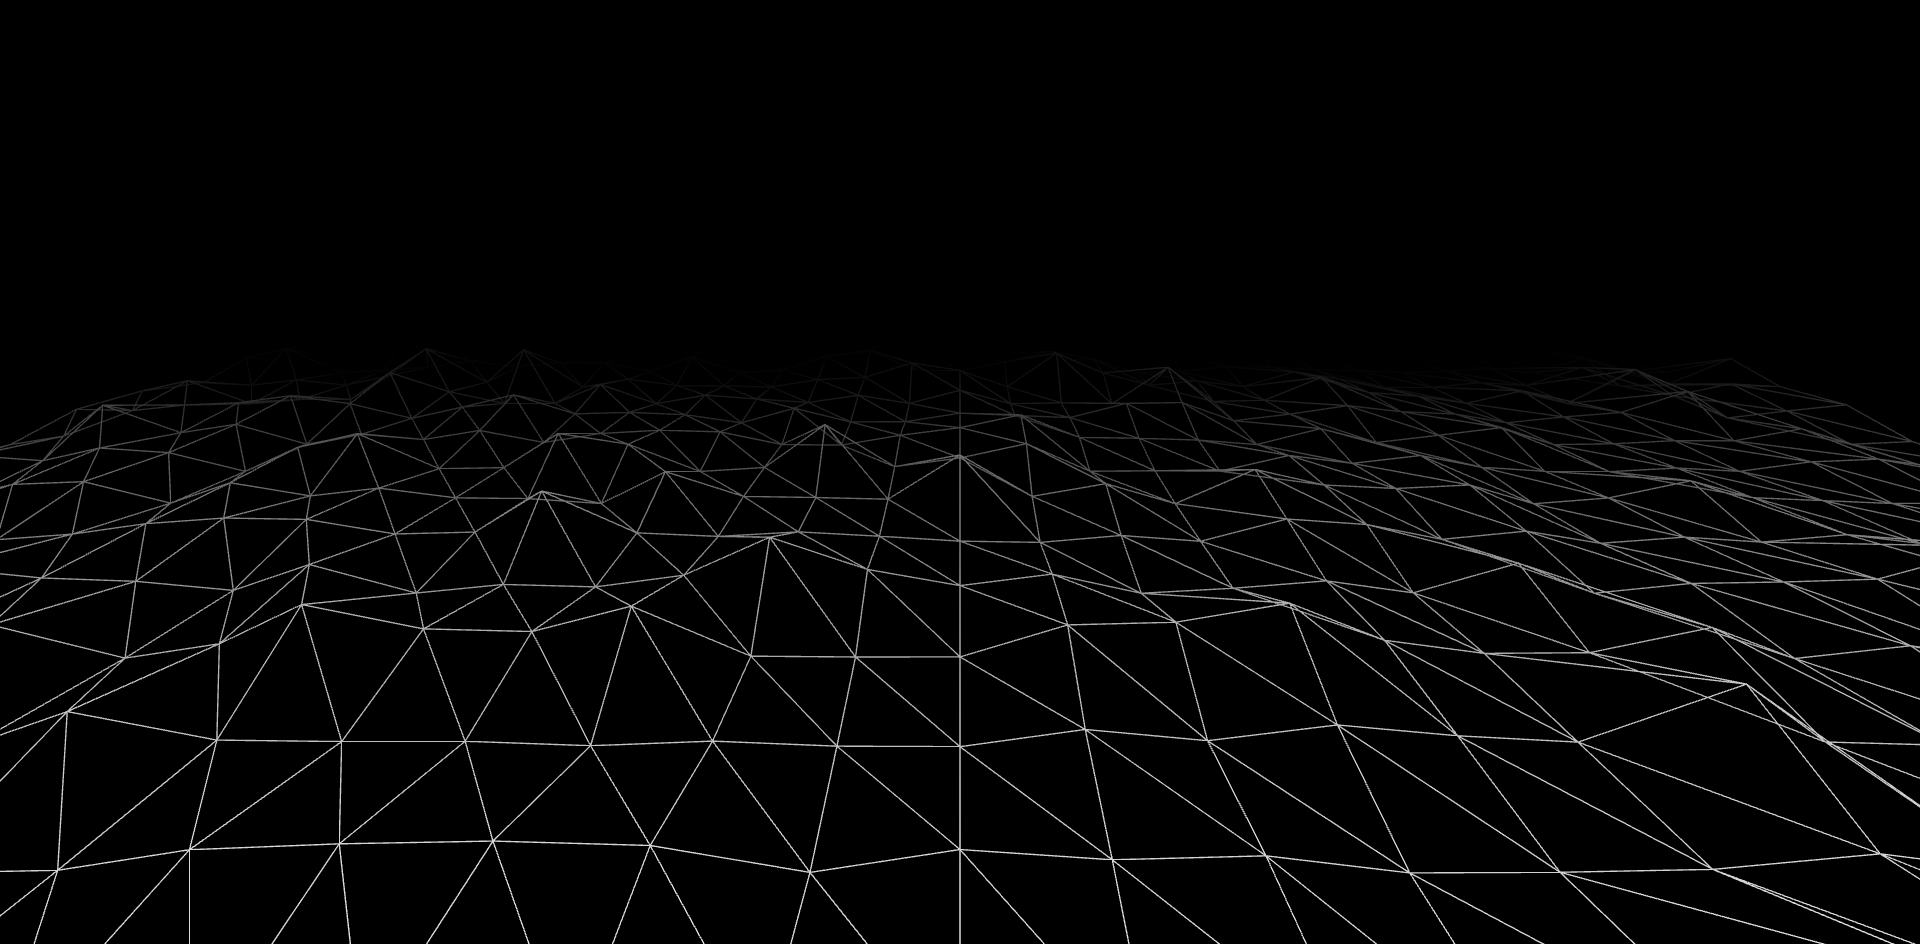
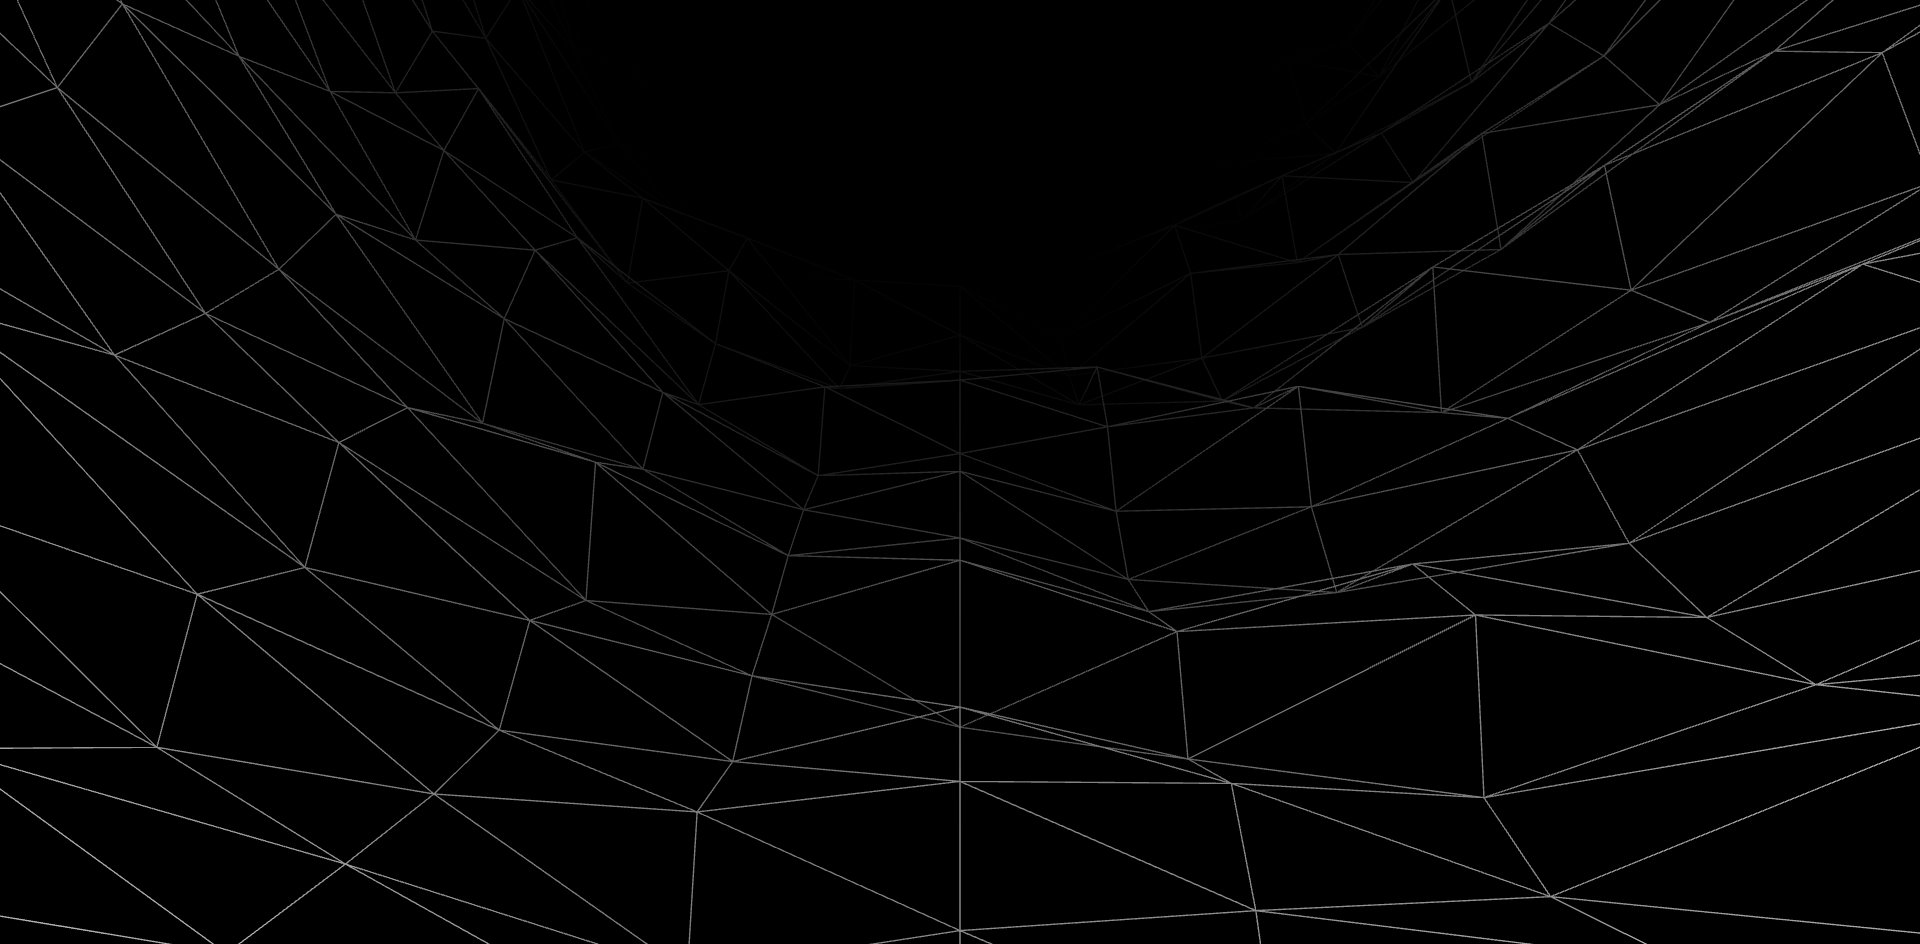
rework background
Clark was here :V

diff --git a/index.html b/index.html
@@ -14,7 +14,7 @@ title: "Home"
                 <ul class="uk-navbar-nav">
                     <li class="uk-active"><a href="/">Home</a></li>
                     <li><a href="/projects">Projects</a></li>
-                    <li><a href="/works">Works</a></li>
+                    <li><a href="/other">Other</a></li>
                     <li><a href="/about">About</a></li>
                 </ul>
             </div>
@@ -36,7 +36,7 @@ title: "Home"
             scene.fog = new THREE.Fog(
                 new THREE.Color('black'),
                 0.1,
-                7.5
+                10
             );
 
             var camera = new THREE.PerspectiveCamera(
@@ -45,6 +45,7 @@ title: "Home"
                 0.1,
                 1000
             );
+            camera.position.y = -8;
             camera.position.z = 2.5;
 
             var renderer = new THREE.WebGLRenderer({
@@ -54,12 +55,14 @@ title: "Home"
             renderer.setSize(window.innerWidth, window.innerHeight);
 
             var terrain = new THREE.Mesh(
-                new THREE.PlaneGeometry(16, 16, 32, 32),
+                new THREE.CylinderGeometry(15, 5, 20, 32, 32),
                 new THREE.MeshBasicMaterial({
                     wireframe: true,
                     color: new THREE.Color('white')
                 })
             );
+            for (var v = 0; v < terrain.geometry.vertices.length; v++)
+                terrain.geometry.vertices[v]._z = terrain.geometry.vertices[v].z;
             terrain.rotation.x = 90;
             scene.add(terrain);
 
@@ -77,10 +80,11 @@ title: "Home"
                 requestAnimationFrame(animate);
 
                 for (var v = 0; v < terrain.geometry.vertices.length; v++) {
-                    terrain.geometry.vertices[v].z = Math.cos(noise.simplex2(
-                        v % 32 + step,
-                        v / 32 + step
-                    ));
+                    var increment = noise.simplex2(
+                        (terrain.geometry.vertices[v].x + step),
+                        (terrain.geometry.vertices[v].y + step)
+                    );
+                    terrain.geometry.vertices[v].z = terrain.geometry.vertices[v]._z + increment;
                 }
                 terrain.geometry.verticesNeedUpdate = true;
                 step += 0.01;
